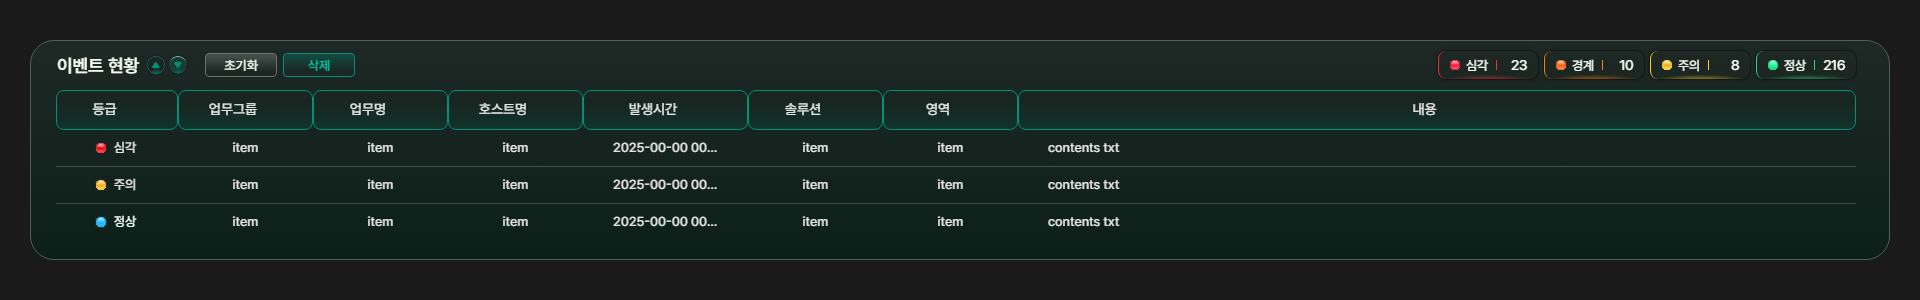
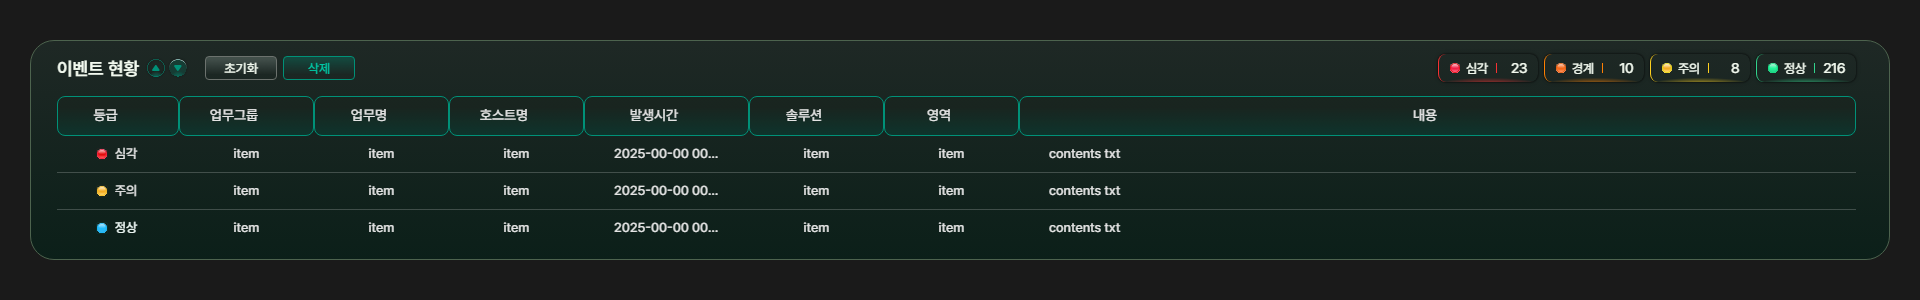
refactor(EventBrowser): Replace absolute layout with flexbox
CSS changes:
- .event-browser: Add display: flex, flex-direction: column
- .event-browser__bg: Add z-index: 0 for background layer
- .event-browser__header: Replace absolute positioning with flex-shrink: 0, z-index: 1
- .table-container: Replace absolute with flex: 1, min-height: 0, z-index: 1

JS changes:
- Tabulator height: offsetHeight → '100%' (works with flexbox parent)

🤖 Generated with [Claude Code](https://claude.com/claude-code)

Changed region(s): [[0.0312, 0.18, 0.9688, 0.78], [0.0312, 0.18, 0.1875, 0.27]]

diff --git a/Projects/HANA_BANK_HIT_Dev/page/components/EventBrowser/styles/component.css b/Projects/HANA_BANK_HIT_Dev/page/components/EventBrowser/styles/component.css
@@ -14,6 +14,9 @@
     height: 100%;
     min-height: 220px;
     font-family: 'Pretendard', -apple-system, BlinkMacSystemFont, sans-serif;
+    display: flex;
+    flex-direction: column;
+    padding: 14px 34px 22px 27px;
 }
 
 .event-browser__bg {
@@ -23,20 +26,19 @@
     border: 1px solid #4d634e;
     border-radius: 24px;
     backdrop-filter: blur(2px);
+    z-index: 0;
 }
 
 /* ==========================================================================
    Header
    ========================================================================== */
 .event-browser__header {
-    position: absolute;
-    top: 14px;
-    left: 27px;
-    right: 34px;
-    height: 22px;
+    flex-shrink: 0;
     display: flex;
     align-items: center;
     justify-content: space-between;
+    position: relative;
+    z-index: 1;
 }
 
 .header__title {
@@ -270,11 +272,11 @@
    Table Container (Tabulator)
    ========================================================================== */
 .table-container {
-    position: absolute;
-    top: 50px;
-    left: 26px;
-    right: 34px;
-    bottom: 22px;
+    flex: 1;
+    margin-top: 14px;
+    min-height: 0;
+    position: relative;
+    z-index: 1;
 }
 
 /* ==========================================================================

diff --git a/Projects/HANA_BANK_HIT_Dev/page/components/EventBrowser/preview.html b/Projects/HANA_BANK_HIT_Dev/page/components/EventBrowser/preview.html
@@ -205,13 +205,10 @@
         // Tabulator 초기화
         // ======================
         document.addEventListener('DOMContentLoaded', () => {
-            const tableContainer = document.querySelector('.table-container');
-            const containerHeight = tableContainer.offsetHeight;
-
             const table = new Tabulator('#tabulator-table', {
                 data: mockData.items,
                 layout: 'fitColumns',
-                height: containerHeight,
+                height: '100%',
                 rowHeight: 36,
                 placeholder: '데이터가 없습니다',
                 headerSort: true,

diff --git a/Projects/HANA_BANK_HIT_Dev/page/components/EventBrowser/scripts/register.js b/Projects/HANA_BANK_HIT_Dev/page/components/EventBrowser/scripts/register.js
@@ -111,11 +111,10 @@ const uniqueId = `tabulator-${this.id}`;
 tableContainer.id = uniqueId;
 
 const gradeFormatter = createGradeIndicator(config.gradeIcons, config.gradeLabels);
-const containerHeight = tableContainer.offsetHeight;
 
 this.tableInstance = new Tabulator(`#${uniqueId}`, {
     layout: 'fitColumns',
-    height: containerHeight,
+    height: '100%',
     rowHeight: 36,
     placeholder: '데이터가 없습니다',
     headerSort: true,
